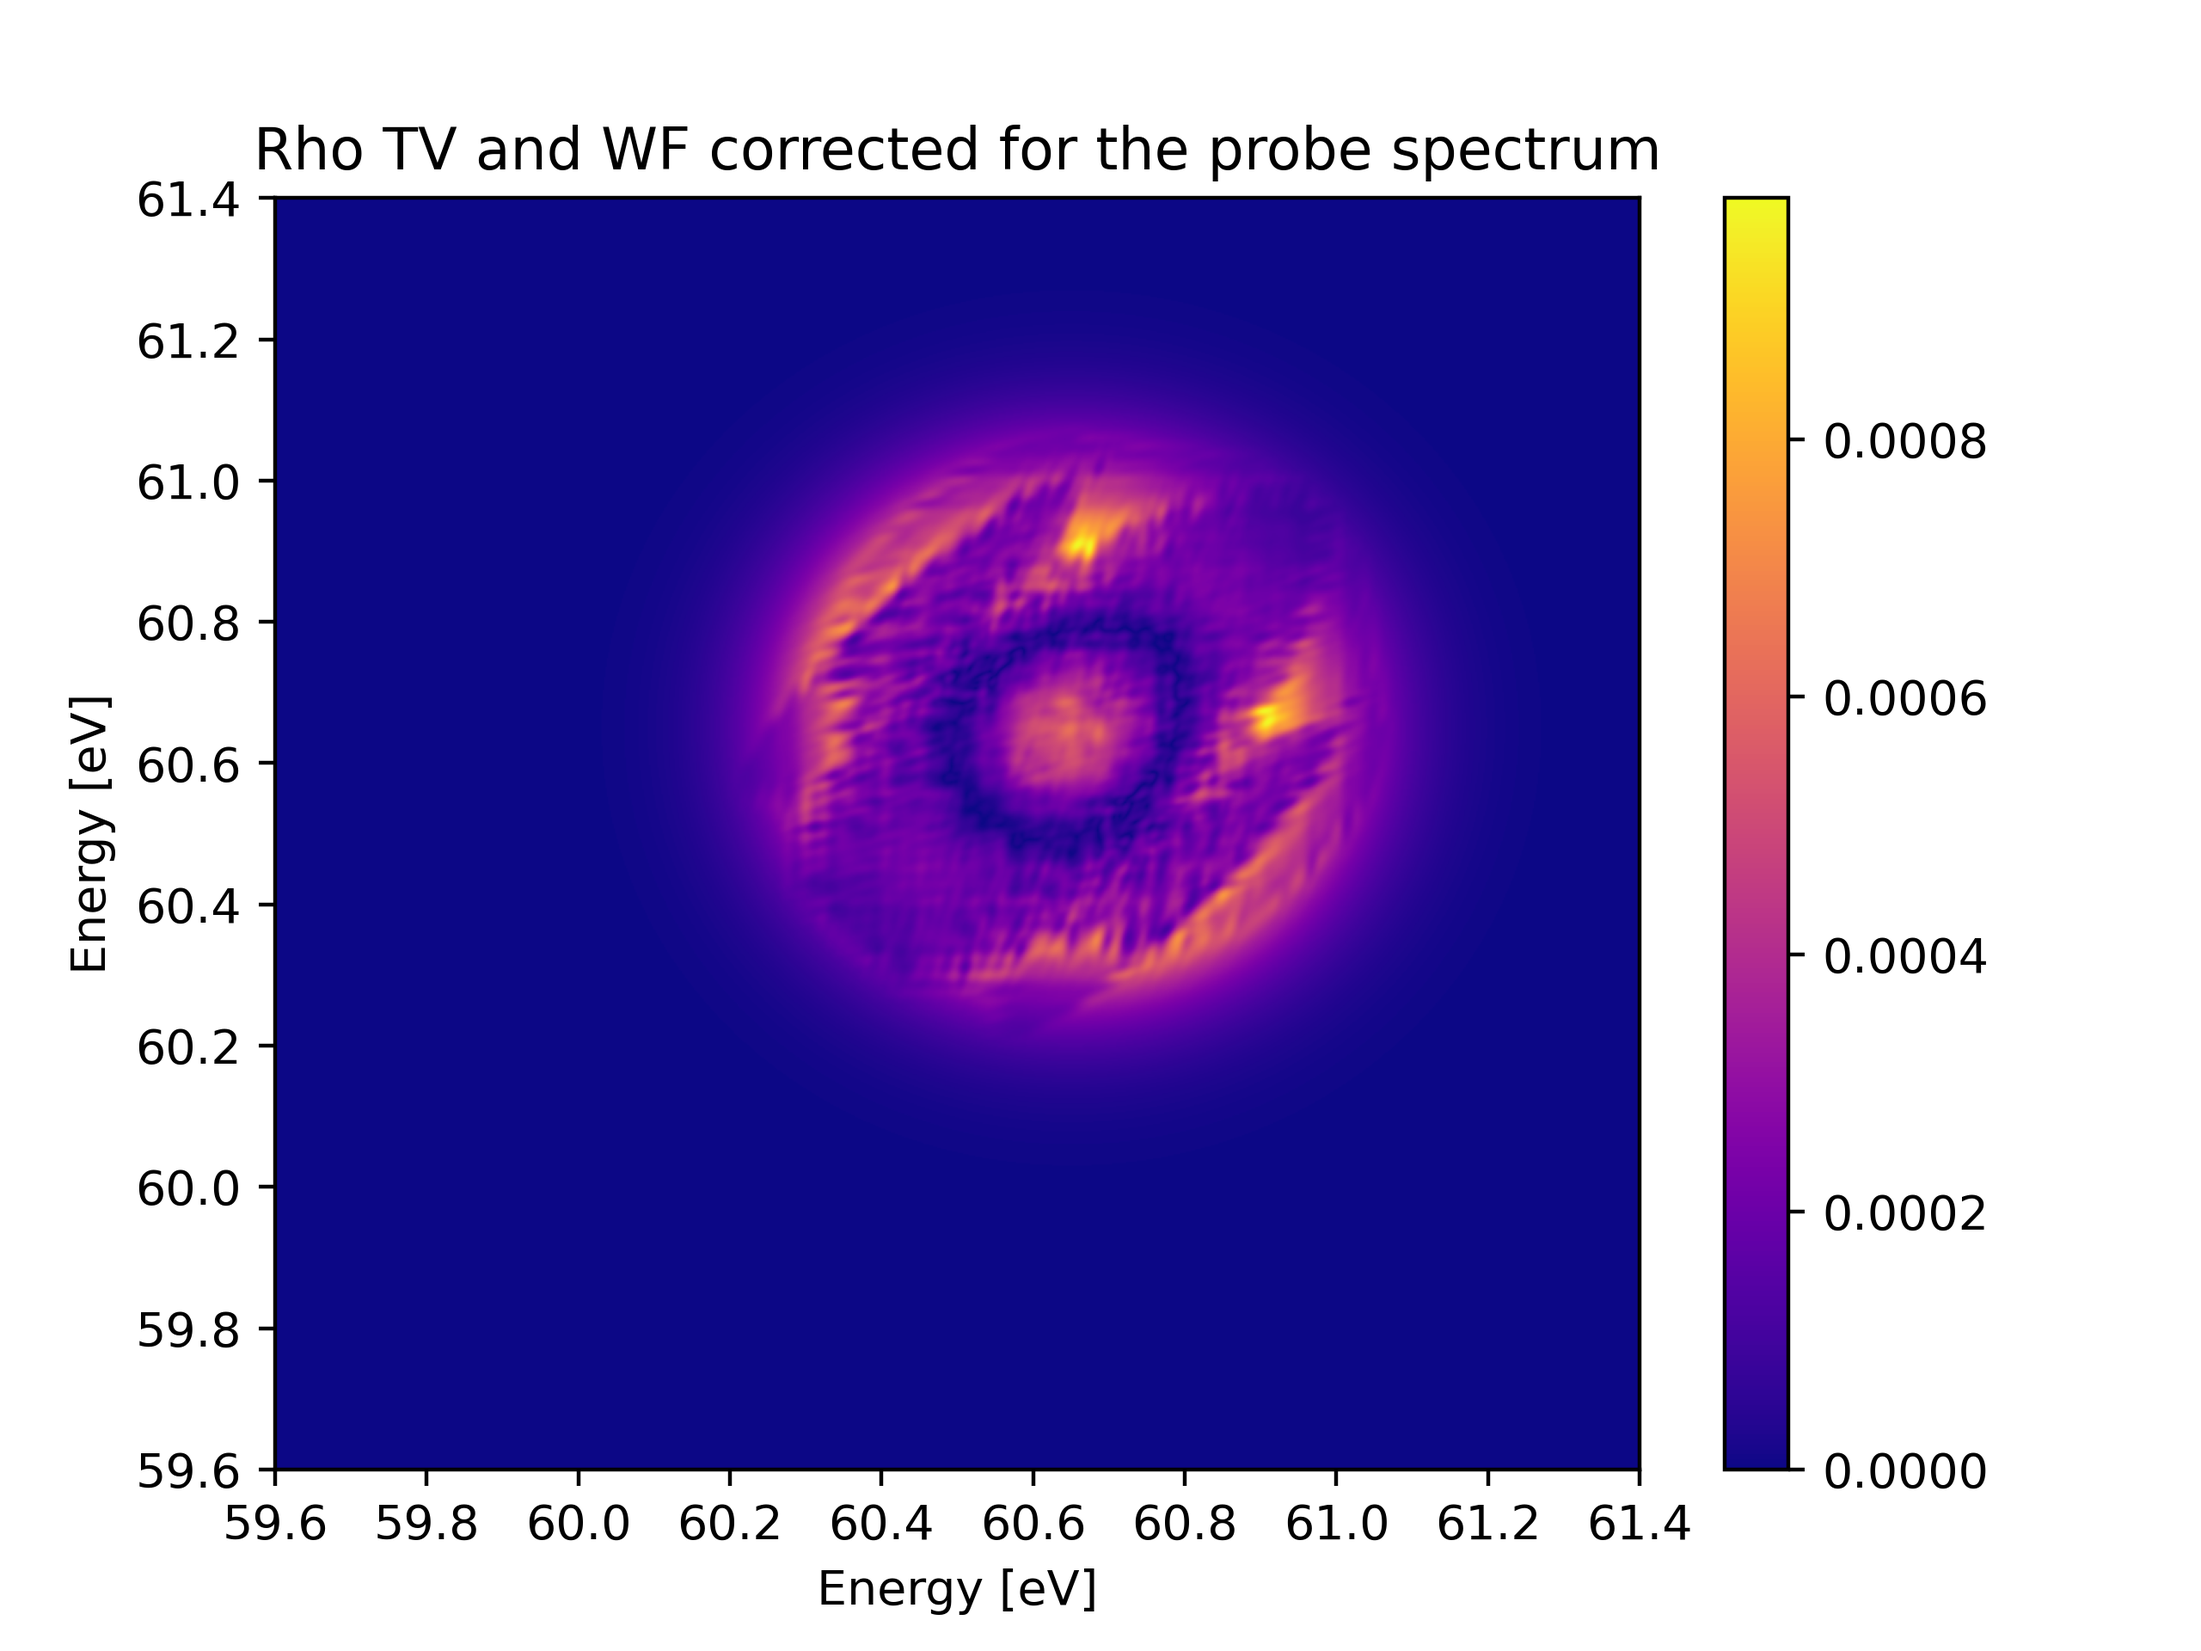
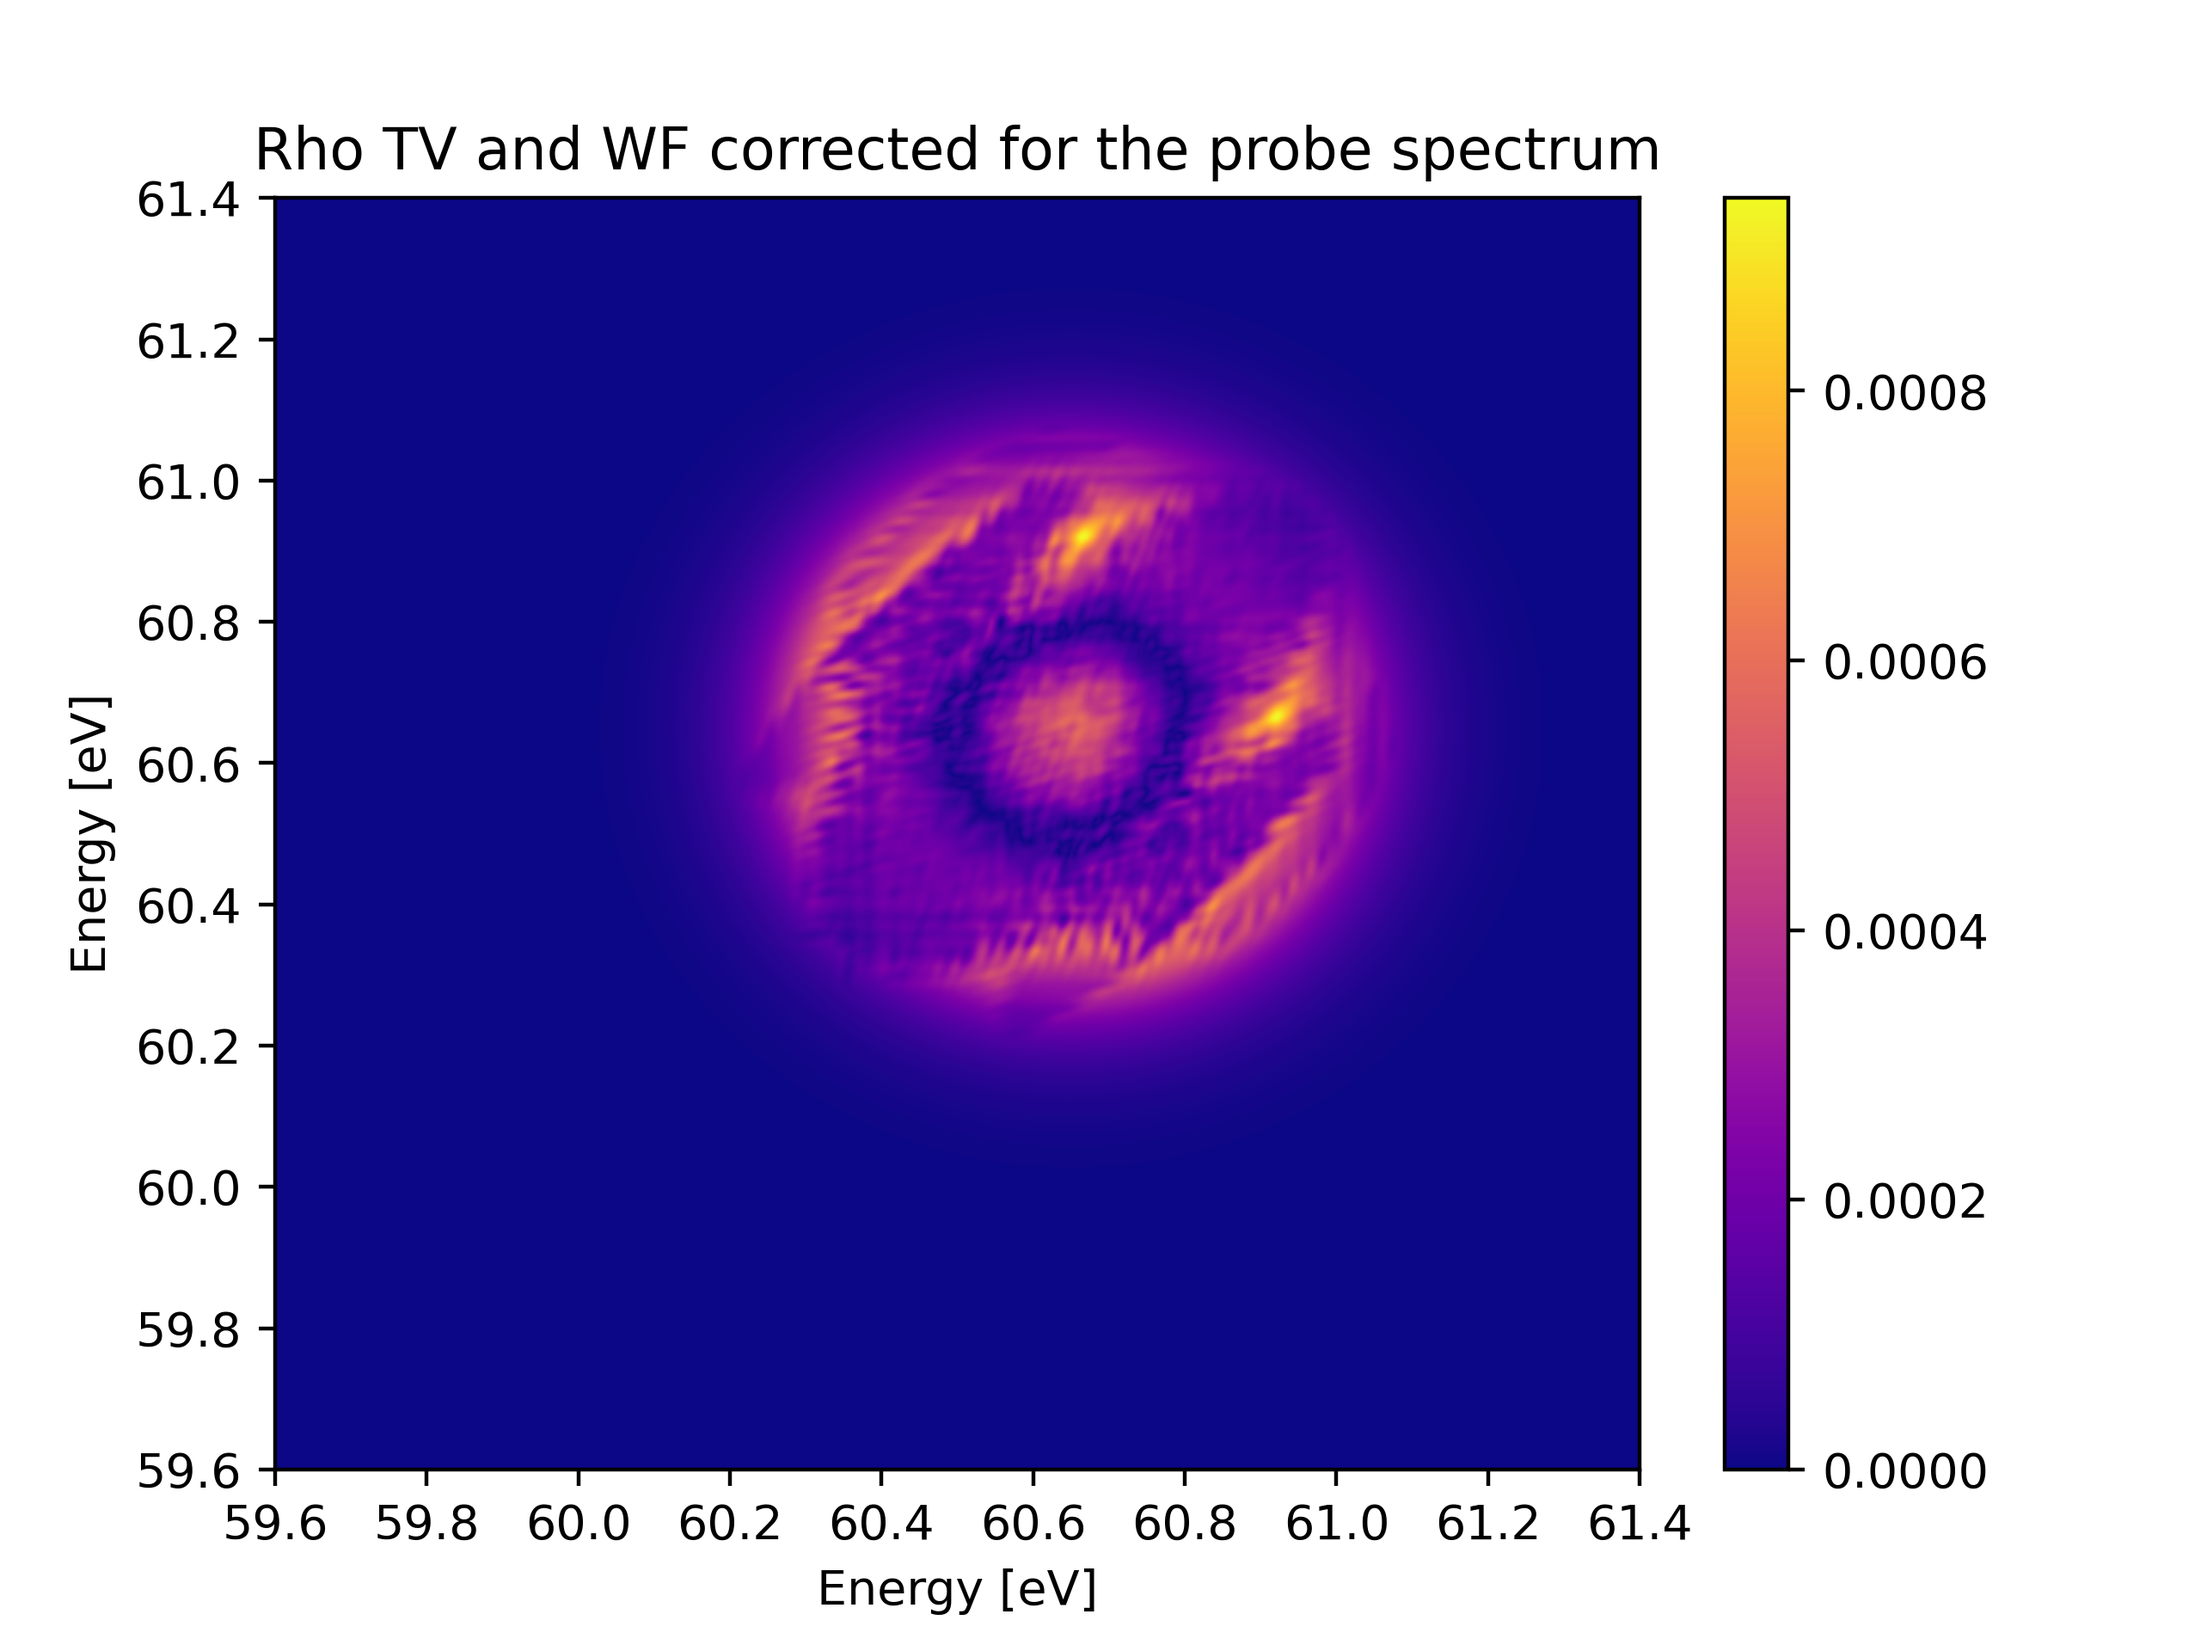
minor changes before messing with low grid sizes

diff --git a/WF_pipeline.py b/WF_pipeline.py
@@ -497,88 +497,6 @@ def nfit_params_to_probes(params):
         probes.append((T,params[3*k],params[3*k+1],params[3*k+2],0))
     return tuple(probes)
 
-# def reconstruct_WirtFlow(sig_measrd,sp_probe,sp_xuv,om_probe,om_xuv,T,
-#                          n_power_iter=50,n_main_iter=10000,mu_step_max=0.06,I_warmup=1000,ifplot=50):
-
-#     n_t, n_e = sig_measrd.shape
-
-#     w = np.ones((n_e,)).astype(complex) / np.sqrt(n_e)
-
-#     m = np.size(sig_measrd)
-
-#     for i_iter in range(n_power_iter):
-
-#         w = 1/m * synth_baseline_hermit(sig_measrd * synth_baseline(w,sp_xuv,om_probe,om_xuv,T),sp_xuv,om_probe,om_xuv,T)
-#         w = w / np.sqrt(np.sum(np.abs(w)**2))
-
-#     lambda_bsln = synth_baseline(w,sp_xuv,om_probe,om_xuv,T)
-#     alpha = np.sum( np.sqrt(sig_measrd) * np.abs(lambda_bsln) ) / np.sum( np.abs(lambda_bsln)**2 )
-
-#     w = alpha*w
-
-#     plt.plot(np.real(w),linewidth=0.7)
-#     plt.plot(np.imag(w),linewidth=0.7)
-#     plt.plot(np.abs(sp_probe))
-#     plt.savefig('initial_spectrum_estimate.png')
-#     plt.close()
-
-#     normsq_z0 = np.sum( np.abs(w)**2 )
-#     z = np.copy(w)
-
-#     ers = []
-
-#     for i_iter in range(n_main_iter):
-
-#         mu_step = mu_step_max*(1-np.exp(-(i_iter+1)/I_warmup))
-
-#         ers.append( np.sum(np.abs( normalize_abs(np.abs(z)) - normalize_abs(np.abs(sp_probe)) )**2)/np.sum(normalize_abs(np.abs(sp_probe))**2) )
-
-#         sbforward = synth_baseline(z,sp_xuv,om_probe,om_xuv,T)
-#         sbhermit_arg = (np.abs(sbforward)**2 - sig_measrd) * sbforward
-#         z = z - mu_step/normsq_z0*1/m * synth_baseline_hermit(sbhermit_arg,sp_xuv,om_probe,om_xuv,T)
-
-#         print(i_iter)
-
-#         if i_iter%int(ifplot)==0 and bool(ifplot):
-#             fig, axes = plt.subplots(2, 1, figsize=(8, 6))
-#             # axes[0].plot(np.real(z), label='Re(z)')
-#             # axes[0].plot(np.imag(z), label='Im(z)')
-#             # axes[0].plot(np.real(sp_probe), label='Re(sp_probe)')
-#             # axes[0].plot(np.imag(sp_probe), label='Im(sp_probe)')
-
-#             axes[0].plot(normalize_abs(np.abs(z)), label='Abs(z)')
-#             axes[0].plot(normalize_abs(np.abs(sp_probe)), label='Abs(sp_probe)')
-#             # axes[0].plot(np.angle(z), label='Abs(z)')
-#             # axes[0].plot(np.angle(sp_probe), label='Abs(sp_probe)')
-
-#             axes[0].set_title('Current spectrum estimate')
-#             axes[0].legend()
-
-#             axes[1].plot(ers, label='Relative MSE')
-#             axes[1].set_yscale('log')
-#             axes[1].set_title('Error history')
-#             axes[1].set_xlabel('Recorded iteration')
-#             axes[1].legend()
-#             if ers:
-#                 last_val = ers[-1]
-#                 axes[1].text(
-#                     0.02, 0.1,
-#                     f'Iter {i_iter}: {last_val:.5f}',
-#                     transform=axes[1].transAxes,
-#                     fontsize=10,
-#                     color='white',
-#                     weight='bold',
-#                     ha='left',
-#                     va='top',
-#                     path_effects=[pe.withStroke(linewidth=1, foreground='black')]
-#                 )
-
-#             plt.tight_layout()
-#             plt.savefig('spectrum_convergence_iter.png')
-#             plt.close()
-
-#     return z
-
 def reconstruct_WirtFlow(sig_measrd,sp_probe,sp_xuv,om_probe,om_xuv,T,b_est,
                          n_power_iter=50,n_main_iter=10000,mu_step_max=0.06,I_warmup=1000,ifplot=50):
 
@@ -888,7 +806,7 @@ E_hi = 63.5
 T_reach = 100
 E_span = E_hi-E_lo
 
-N_E = 300
+N_E = 200
 N_T = 1000
 
 E_range = np.linspace(E_lo,E_hi,N_E)
@@ -987,7 +905,7 @@ signal -= b_est
 # sg2 = sgolay2.SGolayFilter2(window_size=13,poly_order=3)
 # signal = sg2(signal)
 
-# plot_mat(signal)
+plot_mat(signal)
 
 amplit_tot_FT, OM_T, em_lo, em_hi = CFT(T_range,signal,use_window=False)
 
@@ -1110,6 +1028,8 @@ fit_gauss, fit_params = fit_n_gaussians_1d(
 rescale = np.max(sp_xuv)/np.max(fit_gauss)
 fit_gauss = fit_gauss*rescale
 
+xuvs_rec = nfit_params_to_probes(fit_params)
+
 # Align fit_gauss's maximum (along energy) with sp_xuv's maximum
 idx_xuv = int(np.argmax(sp_xuv))
 idx_spk = int(np.argmax(fit_gauss))
@@ -1125,21 +1045,19 @@ fit_gauss = np.roll(fit_gauss, shift_cols)
 ### RETRIEVE PROBE SPECTRUM
 ###
 
-# plot_mat(clip_amplitude(amplit_tot_FT,0,np.max(np.abs(amplit_tot_FT)/4)))
+### DENOISING
+# amplit_tot_FT_re = np.real(amplit_tot_FT)
+# amplit_tot_FT_im = np.imag(amplit_tot_FT)
 
-amplit_tot_FT_re = np.real(amplit_tot_FT)
-amplit_tot_FT_im = np.imag(amplit_tot_FT)
+# amplit_tot_FT_re = denoise_tv_bregman(amplit_tot_FT_re,weight=0.5)
+# amplit_tot_FT_im = denoise_tv_bregman(amplit_tot_FT_im,weight=0.5)
 
-amplit_tot_FT_re = denoise_tv_bregman(amplit_tot_FT_re,weight=0.5)
-amplit_tot_FT_im = denoise_tv_bregman(amplit_tot_FT_im,weight=0.5)
+# amplit_tot_FT_tv = amplit_tot_FT_re + 1j*amplit_tot_FT_im
 
-amplit_tot_FT_tv = amplit_tot_FT_re + 1j*amplit_tot_FT_im
-
-### perhaps after denoising we can squeeze more out of the regions right on the edge of signal/noise. Have to keep discarding pure noise for regularizing spectrum correction
-amp_tv = threshold_noise(np.abs(amplit_tot_FT_tv),tot_rician_full)
-amplit_tot_FT_tv = amp_tv * np.exp(1j*np.angle(amplit_tot_FT_tv))
-
-# plot_mat(clip_amplitude(amplit_tot_FT_tv,0,np.max(np.abs(amplit_tot_FT)/4)))
+# ### perhaps after denoising we can squeeze more out of the regions right on the edge of signal/noise. Have to keep discarding pure noise for regularizing spectrum correction
+# amp_tv = threshold_noise(np.abs(amplit_tot_FT_tv),tot_rician_full)
+# amplit_tot_FT_tv = amp_tv * np.exp(1j*np.angle(amplit_tot_FT_tv))
+###
 
 file = './rec_spectra/sp_probe.npy'
 
@@ -1179,11 +1097,11 @@ probes_reconstructed = nfit_params_to_probes(fit_params)
 correction = correcting_function_multi(OM_T,E,pulse_xuv,probes,dzeta=1e-8)
 amplit_tot_FT_corrected = correction*amplit_tot_FT
 
-correction = correcting_function_multi(OM_T,E,pulse_xuv,probes,dzeta=1e-8)
-amplit_tot_FT_corrected_tv = correction*amplit_tot_FT_tv
+correction_x = correcting_function_multi(OM_T,E,xuvs_rec[0],probes,dzeta=1e-8)
+amplit_tot_FT_corrected_x = correction_x*amplit_tot_FT
 
-correction_rec = correcting_function_multi(OM_T,E,pulse_xuv,probes_reconstructed,dzeta=1e-8)
-amplit_tot_FT_corrected_rec_tv = correction_rec*amplit_tot_FT_tv
+correction_rec_x = correcting_function_multi(OM_T,E,xuvs_rec[0],probes_reconstructed,dzeta=1e-8)
+amplit_tot_FT_corrected_rec_x = correction_rec_x*amplit_tot_FT
 
 
 ###
@@ -1195,21 +1113,21 @@ rho_hi = 61.4
 
 rho_reconstructed, amplit_tot_FT_corrected_small, extent_small, idxs_small, E1, E2 = resample(amplit_tot_FT_corrected,rho_hi,rho_lo,om_ref,E,OM_T,N_T)
 
-rho_reconstructed_tv, amplit_tot_FT_corrected_small, extent_small, idxs_small, _, _ = resample(amplit_tot_FT_corrected_tv,rho_hi,rho_lo,om_ref,E,OM_T,N_T)
+rho_reconstructed_x, amplit_tot_FT_corrected_small, extent_small, idxs_small, _, _ = resample(amplit_tot_FT_corrected_x,rho_hi,rho_lo,om_ref,E,OM_T,N_T)
 
-rho_reconstructed_rec_tv, amplit_tot_FT_corrected_small_rec, extent_small, idxs_small, _, _ = resample(amplit_tot_FT_corrected_rec_tv,rho_hi,rho_lo,om_ref,E,OM_T,N_T)
+rho_reconstructed_rec_x, amplit_tot_FT_corrected_small_rec, extent_small, idxs_small, _, _ = resample(amplit_tot_FT_corrected_rec_x,rho_hi,rho_lo,om_ref,E,OM_T,N_T)
 
 plot_mat(rho_reconstructed,extent=[rho_lo,rho_hi,rho_lo,rho_hi],cmap='plasma',
          mode='abs',saveloc='rhos/synth_corr.png',xlabel='Energy [eV]',ylabel='Energy [eV]',
          title='Rho ideally corrected for the probe spectrum',show=False)
 
-plot_mat(rho_reconstructed_tv,extent=[rho_lo,rho_hi,rho_lo,rho_hi],cmap='plasma',
-         mode='abs',saveloc='rhos/synth_corr_tv.png',xlabel='Energy [eV]',ylabel='Energy [eV]',
-         title='Rho TV and ideally corrected for the probe spectrum',show=False)
+plot_mat(rho_reconstructed_x,extent=[rho_lo,rho_hi,rho_lo,rho_hi],cmap='plasma',
+         mode='abs',saveloc='rhos/synth_corr_x.png',xlabel='Energy [eV]',ylabel='Energy [eV]',
+         title='Rho rec xuv and ideally corrected for the probe spectrum',show=False)
 
-plot_mat(rho_reconstructed_rec_tv,extent=[rho_lo,rho_hi,rho_lo,rho_hi],cmap='plasma',
-         mode='abs',saveloc='rhos/rec_corr_tv.png',xlabel='Energy [eV]',ylabel='Energy [eV]',
-         title='Rho TV and WF corrected for the probe spectrum',show=False)
+plot_mat(rho_reconstructed_rec_x,extent=[rho_lo,rho_hi,rho_lo,rho_hi],cmap='plasma',
+         mode='abs',saveloc='rhos/rec_corr_x.png',xlabel='Energy [eV]',ylabel='Energy [eV]',
+         title='Rho rec xuv and WF rec probe',show=False)
 
 ###
 ### COMPARISON WITH A GROUND TRUTH
@@ -1226,11 +1144,11 @@ plot_mat(ideal_rho - rho_reconstructed,extent=[rho_lo,rho_hi,rho_lo,rho_hi],cmap
          mode='abs',saveloc='rhos/diff1.png',xlabel='Energy [eV]',ylabel='Energy [eV]',
          title='Rho TV and WF corrected for the probe spectrum',show=False)
 
-plot_mat(ideal_rho - rho_reconstructed_tv,extent=[rho_lo,rho_hi,rho_lo,rho_hi],cmap='plasma',
+plot_mat(ideal_rho - rho_reconstructed_x,extent=[rho_lo,rho_hi,rho_lo,rho_hi],cmap='plasma',
          mode='abs',saveloc='rhos/diff2.png',xlabel='Energy [eV]',ylabel='Energy [eV]',
          title='Rho TV and WF corrected for the probe spectrum',show=False)
 
-plot_mat(ideal_rho - rho_reconstructed_rec_tv,extent=[rho_lo,rho_hi,rho_lo,rho_hi],cmap='plasma',
+plot_mat(ideal_rho - rho_reconstructed_rec_x,extent=[rho_lo,rho_hi,rho_lo,rho_hi],cmap='plasma',
          mode='abs',saveloc='rhos/diff3.png',xlabel='Energy [eV]',ylabel='Energy [eV]',
          title='Rho TV and WF corrected for the probe spectrum',show=False)
 
@@ -1241,7 +1159,7 @@ def fidelity(rho,sigma):
     return np.trace(b)**2
 
 fid1 = np.real(fidelity(ideal_rho, rho_reconstructed))
-fid2 = np.real(fidelity(ideal_rho, rho_reconstructed_tv))
-fid3 = np.real(fidelity(ideal_rho, rho_reconstructed_rec_tv))
+fid2 = np.real(fidelity(ideal_rho, rho_reconstructed_x))
+fid3 = np.real(fidelity(ideal_rho, rho_reconstructed_rec_x))
 
 print(fid1,fid2,fid3)
